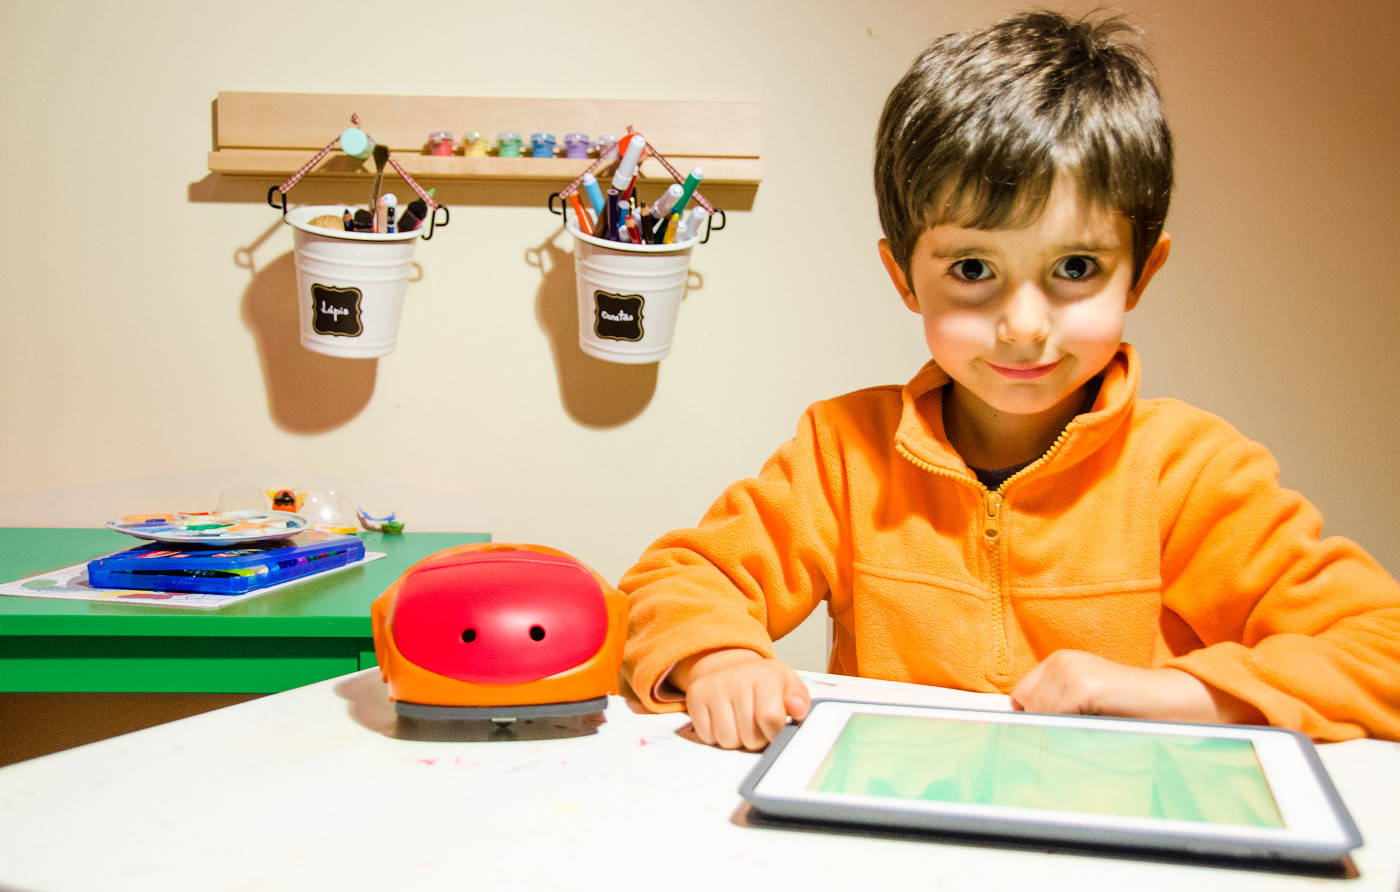
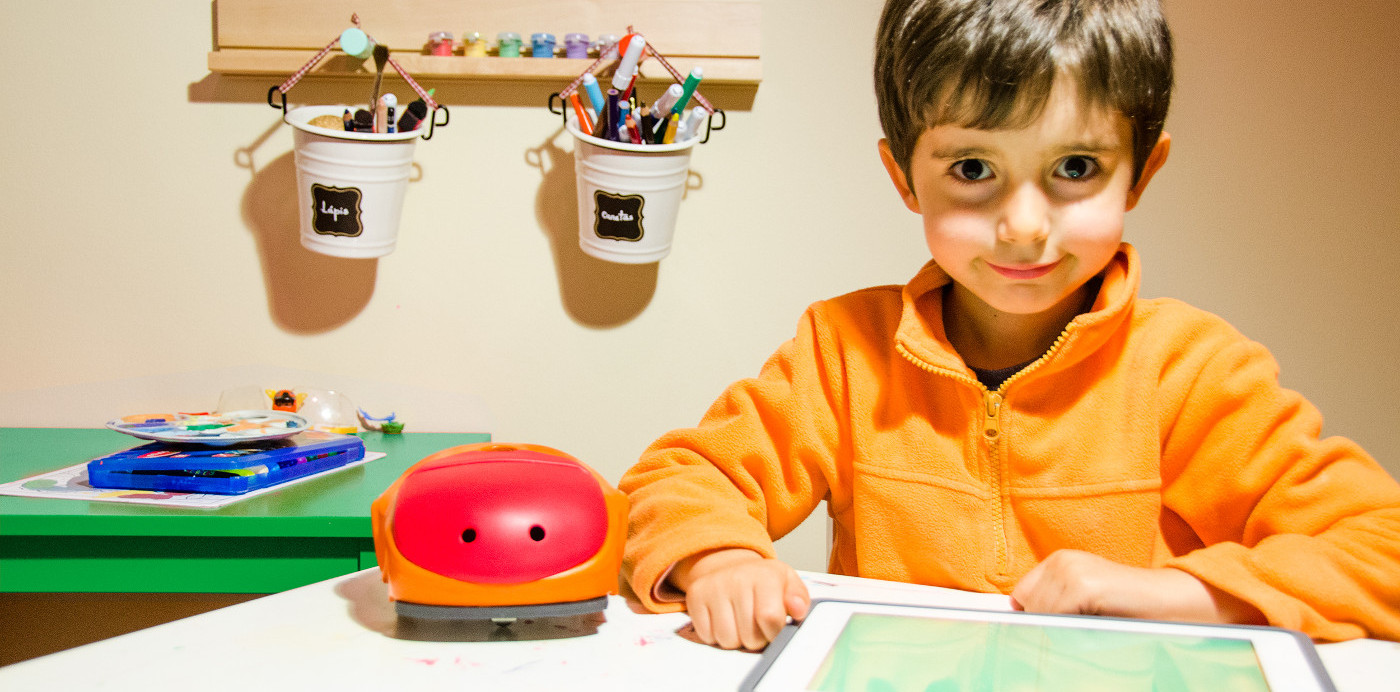
update images

diff --git a/index.html b/index.html
@@ -33,13 +33,13 @@
 	</header>
 
 	<section class="slider">
-		<div id="jssor_1" style="position: relative; margin: 0 auto; top: 0px; left: 0px; width: 1300px; height: 892px; overflow: hidden; visibility: hidden;">
+		<div id="jssor_1" style="position: relative; margin: 0 auto; top: 0px; left: 0px; width: 1400px; height: 692px; overflow: hidden; visibility: hidden;">
 			<!-- Loading Screen -->
 			<div data-u="loading" style="position: absolute; top: 0px; left: 0px;">
 				<!--<div style="filter: alpha(opacity=70); opacity: 0.7; position: absolute; display: block; top: 0px; left: 0px; width: 100%; height: 100%;"></div>
 				<div style="position:absolute;display:block;background:url('gfx/loading.gif') no-repeat center center;top:0px;left:0px;width:100%;height:100%;"></div>-->
 			</div>
-			<div data-u="slides" style="cursor: default; position: relative; top: 0px; left: 0px; width: 1400px; height: 892px; overflow: hidden;">
+			<div data-u="slides" style="cursor: default; position: relative; top: 0px; left: 0px; width: 1400px; height: 692px; overflow: hidden;">
 				<div data-p="225.00" style="display: none;">
 					<img data-u="image" src="gfx/slider1.jpg" />
 				</div>
